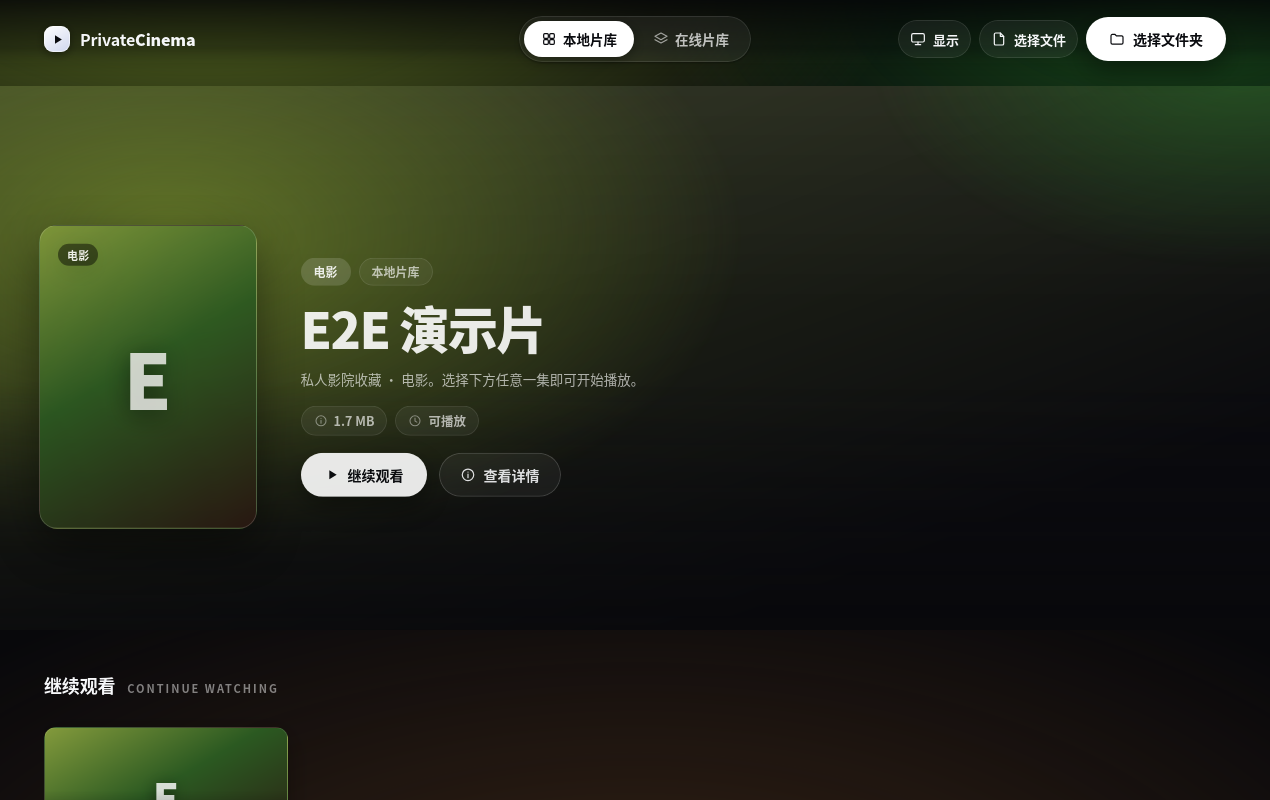
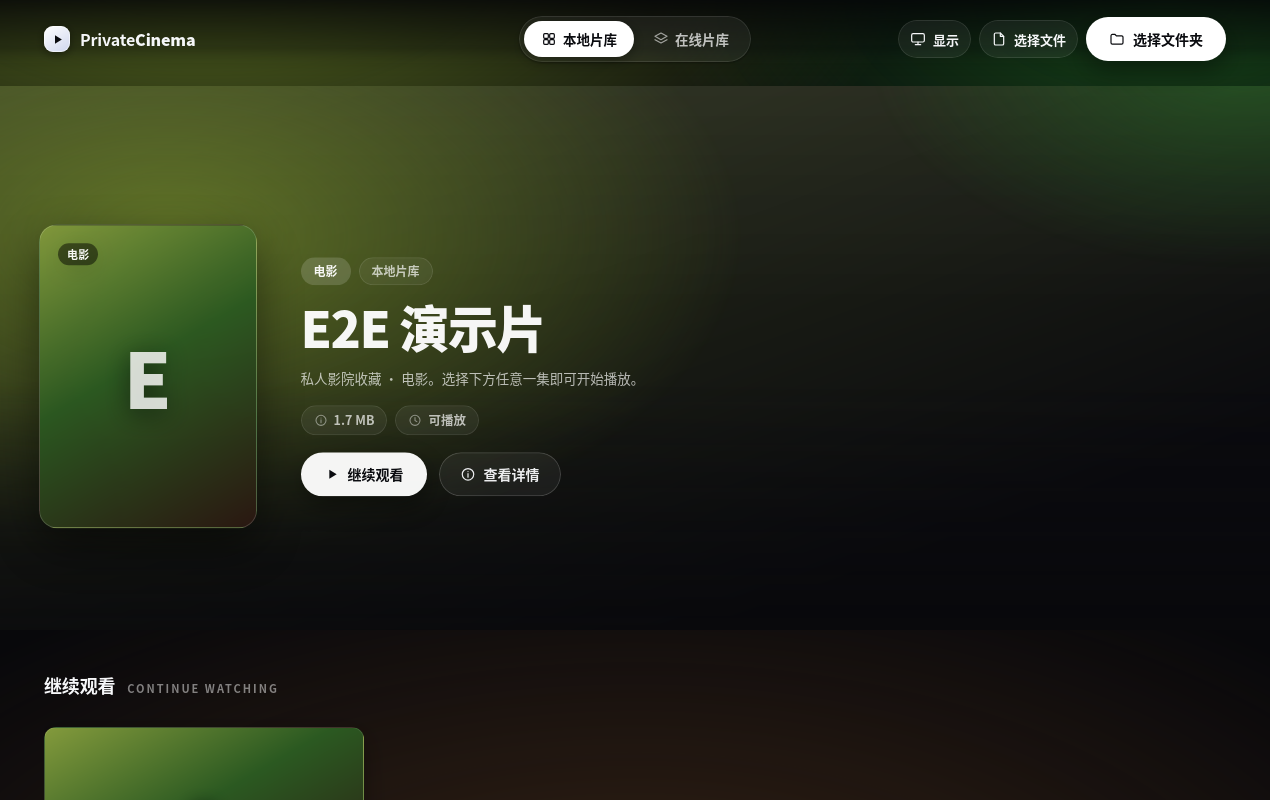
feat(ui): 继续观看分档（最近大卡）+ 大卡区常显横向翻页按钮

diff --git a/desktop/src/ui/Rail.tsx b/desktop/src/ui/Rail.tsx
@@ -16,21 +16,27 @@ import { Icon } from './icons'
 interface Props {
   children: ReactNode
   className?: string
+  /** 常显左右翻页按钮（大卡区用），到两端时对应按钮置灰 */
+  alwaysNav?: boolean
 }
 
-export function Rail({ children, className }: Props): JSX.Element {
+export function Rail({ children, className, alwaysNav }: Props): JSX.Element {
   const scroller = useRef<HTMLDivElement>(null)
-  const [reach, setReach] = useState({ left: false, right: false })
+  const [reach, setReach] = useState({ left: false, right: false, overflow: false })
 
   const sync = useCallback(() => {
     const el = scroller.current
     if (el === null) return
     const max = el.scrollWidth - el.clientWidth
     if (max <= 1) {
-      setReach({ left: false, right: false })
+      setReach({ left: false, right: false, overflow: false })
       return
     }
-    setReach({ left: el.scrollLeft > 2, right: el.scrollLeft < max - 2 })
+    setReach({
+      left: el.scrollLeft > 2,
+      right: el.scrollLeft < max - 2,
+      overflow: true,
+    })
   }, [])
 
   useEffect(() => {
@@ -80,9 +86,11 @@ export function Rail({ children, className }: Props): JSX.Element {
   )
 
   const fadeClass = `${reach.left ? ' fade-left' : ''}${reach.right ? ' fade-right' : ''}`
+  const showPrev = alwaysNav ? reach.overflow : reach.left
+  const showNext = alwaysNav ? reach.overflow : reach.right
 
   return (
-    <div className="rail-wrap">
+    <div className={alwaysNav ? 'rail-wrap nav-always' : 'rail-wrap'}>
       <div
         className={`rail${fadeClass}${className !== undefined ? ` ${className}` : ''}`}
         ref={scroller}
@@ -91,21 +99,23 @@ export function Rail({ children, className }: Props): JSX.Element {
       >
         {children}
       </div>
-      {reach.left && (
+      {showPrev && (
         <button
           type="button"
           className="rail-nav rail-nav-prev"
           aria-label="向左浏览"
+          disabled={!reach.left}
           onClick={() => page(-1)}
         >
           <Icon name="chevron-left" size={20} />
         </button>
       )}
-      {reach.right && (
+      {showNext && (
         <button
           type="button"
           className="rail-nav rail-nav-next"
           aria-label="向右浏览"
+          disabled={!reach.right}
           onClick={() => page(1)}
         >
           <Icon name="chevron-right" size={20} />

diff --git a/desktop/src/ui/LibraryScreen.tsx b/desktop/src/ui/LibraryScreen.tsx
@@ -343,7 +343,7 @@ export function LibraryScreen({ items, episodes, onScan, onPlay }: Props): JSX.E
                     <span className="section-en">Continue Watching</span>
                   </div>
                   <Rail>
-                    {continueRecords.map((record) => {
+                    {continueRecords.map((record, index) => {
                       const media = items.find((item) => item.id === record.mediaId)
                       const episode = episodes.find((item) => item.id === record.episodeId)
                       const pct = percentOf(record.position, record.duration)
@@ -351,7 +351,7 @@ export function LibraryScreen({ items, episodes, onScan, onPlay }: Props): JSX.E
                       return (
                         <button
                           key={`${record.mediaId}:${record.episodeId}`}
-                          className="cw-card"
+                          className={index === 0 ? 'cw-card cw-card-lg' : 'cw-card'}
                           disabled={media === undefined || episode === undefined}
                           onClick={() => {
                             if (media !== undefined && episode !== undefined) {

diff --git a/desktop/src/styles.css b/desktop/src/styles.css
@@ -684,7 +684,7 @@ select {
 
 .cw-card {
   flex: none;
-  width: 244px;
+  width: 220px;
   display: flex;
   flex-direction: column;
   gap: 9px;
@@ -693,6 +693,16 @@ select {
   background: transparent;
   text-align: left;
   border-radius: 14px;
+}
+/* 继续观看分档：最近在看放大卡，其余标准卡 */
+.cw-card.cw-card-lg {
+  width: 320px;
+}
+.cw-card.cw-card-lg .cw-cover-art {
+  font-size: 54px;
+}
+.cw-card.cw-card-lg .cw-title {
+  font-size: 15px;
 }
 .cw-cover {
   position: relative;
@@ -873,6 +883,14 @@ select {
 .rail-wrap:focus-within .rail-nav,
 .rail-nav:focus-visible {
   opacity: 1;
+}
+/* 大卡区常显翻页按钮：到两端时置灰 */
+.rail-wrap.nav-always .rail-nav {
+  opacity: 1;
+}
+.rail-nav:disabled {
+  opacity: 0.28;
+  cursor: default;
 }
 .rail-nav:hover:not(:disabled) {
   background: var(--glass-hover);

diff --git a/desktop/src/ui/OnlineLibrary.tsx b/desktop/src/ui/OnlineLibrary.tsx
@@ -435,8 +435,8 @@ export function OnlineLibrary({ onPlay }: Props): JSX.Element {
                 <h2 className="section-title">{section.title}</h2>
                 {section.subtitle !== '' && <span className="section-en">{section.subtitle}</span>}
               </div>
-              {/* P2 货架分档：首个热门区用大卡，其余用标准卡 */}
-              <Rail className={index === 0 ? 'rail-lg' : undefined}>
+              {/* P2 货架分档：首个热门区用大卡 + 常显翻页按钮，其余用标准卡 */}
+              <Rail className={index === 0 ? 'rail-lg' : undefined} alwaysNav={index === 0}>
                 {section.cards.map(renderCard)}
               </Rail>
             </section>

diff --git a/docs/2026-11-13-mygo-refactor.md b/docs/2026-11-13-mygo-refactor.md
@@ -266,7 +266,7 @@ GTK 对话框也不在 mygo 的窗口树里）。为此加了一条**仅 e2e 构
 - **P0 全幅 banner Hero**：`.hero` 用 `width:100vw; margin-left: calc(-50vw + 50%)` 跳出 `.screen-inner` 的 1320 栅格，铺满视口；高度 `clamp(430px, 68vh, 640px)`；内边距 `max(44px, 50vw-660px)` 让内容仍对齐主栅格。`.screen` 加 `overflow-x:hidden` 裁掉 1vw 溢出。
 - **P1 单集信息平衡**：`.detail-hero` 改 `align-items: stretch`，`.detail-actions` 用 `margin-top:auto` 推到底 —— 简介为空时操作行与海报底对齐，右栏不再一头沉。
 - **P1 在线工具栏合并**：`OnlineLibrary` 把「片源 / 搜索 / 分类」压进同一行 `.online-toolbar`（窄屏自动换行），去掉第二行。
-- **P2 Hero 轮播 + 网格/货架分档**：`LibraryScreen` 与 `OnlineLibrary` 增加 `heroIndex` 状态 + 6.5–7s `setInterval` 轮播（`hero-inner` 以 `key` 触发 `hero-crossfade` 交叉淡入）；本地新增 `.hero-pager` 指示点，在线用快速缩略条点选。`media-grid` 卡片基础档 158→168px，`@media(min-width:1420px)` 再放大到 188px。在线分区货架也分档：首个热门区 `Rail.rail-lg` 用 208px 大卡，其余 146px 标准卡（窄屏 168/130），密度对比更清楚。
+- **P2 Hero 轮播 + 网格/货架分档**：`LibraryScreen` 与 `OnlineLibrary` 增加 `heroIndex` 状态 + 6.5–7s `setInterval` 轮播（`hero-inner` 以 `key` 触发 `hero-crossfade` 交叉淡入）；本地新增 `.hero-pager` 指示点，在线用快速缩略条点选。`media-grid` 卡片基础档 158→168px，`@media(min-width:1420px)` 再放大到 188px。在线分区货架也分档：首个热门区 `Rail.rail-lg` 用 208px 大卡 + 常显翻页按钮（`Rail alwaysNav`，到两端置灰），其余 146px 标准卡（窄屏 168/130）；「继续观看」同样分档 —— 最近一条 `cw-card-lg` 320px 大卡，其余 220px 标准卡。
 - **P3 窄屏封面铺底**：`@media(max-width:620px)` 不再 `display:none` 海报，而是 `position:absolute; inset:0` 铺满整幅、`opacity:.5` 做背景，底部长渐变压暗，文字压在封面之上。
 - 附带修复：`.display-popover` 始终深色但此前继承浅色主题的深色文字（深底深字），现局部钉住深色变量。
 
